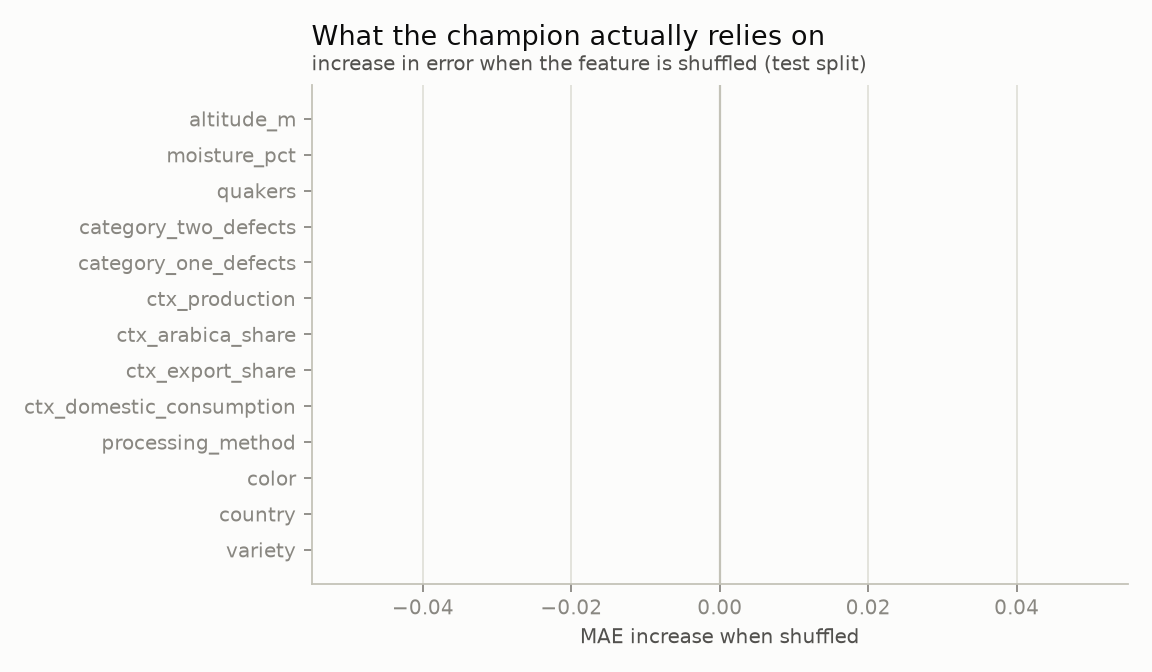
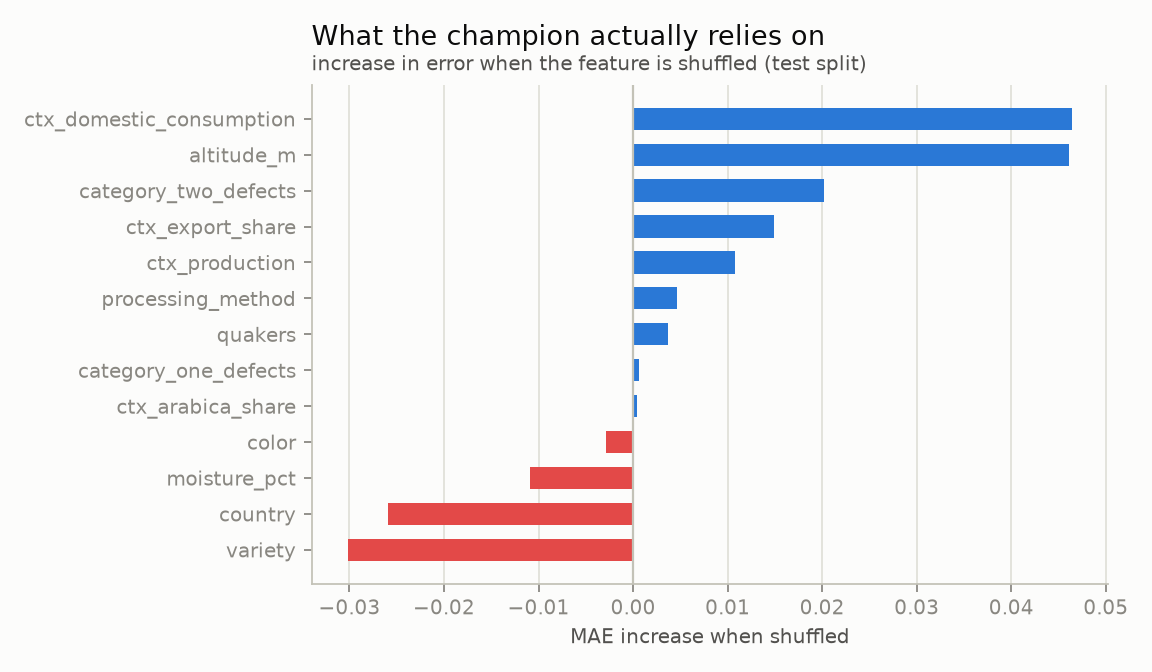
fix(analysis): stop the tests from republishing the documentation figures
`analysis run` copies the selected figures into docs/figures/ when it runs from
a checkout, and the CLI test invokes the real command: every `make check` was
overwriting the committed documentation with pictures of the 25-row fixture.
They were committed that way, so the README rendered a box plot of n=13 and
n=12 next to a paragraph about 1,309 and 207 lots, and a permutation-importance
chart of the test double's zeros next to a claim about what the champion relies
on.

The test now redirects the repo root at a temp dir and asserts what landed
there, which also turns publishing into something the suite actually checks.
The figures are regenerated from the real layers with the v1 champion.

diff --git a/tests/test_cli.py b/tests/test_cli.py
@@ -219,6 +219,9 @@ def test_prune_says_so_when_there_is_nothing_to_drop(
 def test_analysis_run_writes_studies_and_publishes_figures(
     data_dir: Path, monkeypatch: pytest.MonkeyPatch
 ) -> None:
+    """The repo root is redirected on purpose: the command publishes figures into
+    `docs/figures/`, so without this the suite overwrites the documentation with
+    pictures of the 25-row fixture -- committed, and rendered in the README."""
     runner = CliRunner()
     runner.invoke(cli.app, ["data", "run"])
     runner.invoke(cli.app, ["ml", "features"])
@@ -226,12 +229,20 @@ def test_analysis_run_writes_studies_and_publishes_figures(
         "coffee_mlops.analysis.pipeline.load_champion",
         lambda *args, **kwargs: ServedModel(ConstantModel(), "1", "cache"),
     )
+    monkeypatch.setattr(cli, "REPO_ROOT", data_dir / "checkout")
+    (data_dir / "checkout" / "docs").mkdir(parents=True)
 
     result = runner.invoke(cli.app, ["analysis", "run"])
 
     assert result.exit_code == 0, result.output
     assert "feature_recommendation:" in result.output
     assert (data_dir / "coffee" / "analysis" / "feature_recommendation").is_dir()
+    published = data_dir / "checkout" / "docs" / "figures"
+    assert {path.name for path in published.iterdir()} == {
+        "target_distribution.png",
+        "feature_importance.png",
+        "market_history.png",  # residual_bias needs predictions, which this run has none of
+    }
 
 
 def test_the_dashboard_command_launches_streamlit_headless(monkeypatch: pytest.MonkeyPatch) -> None:
